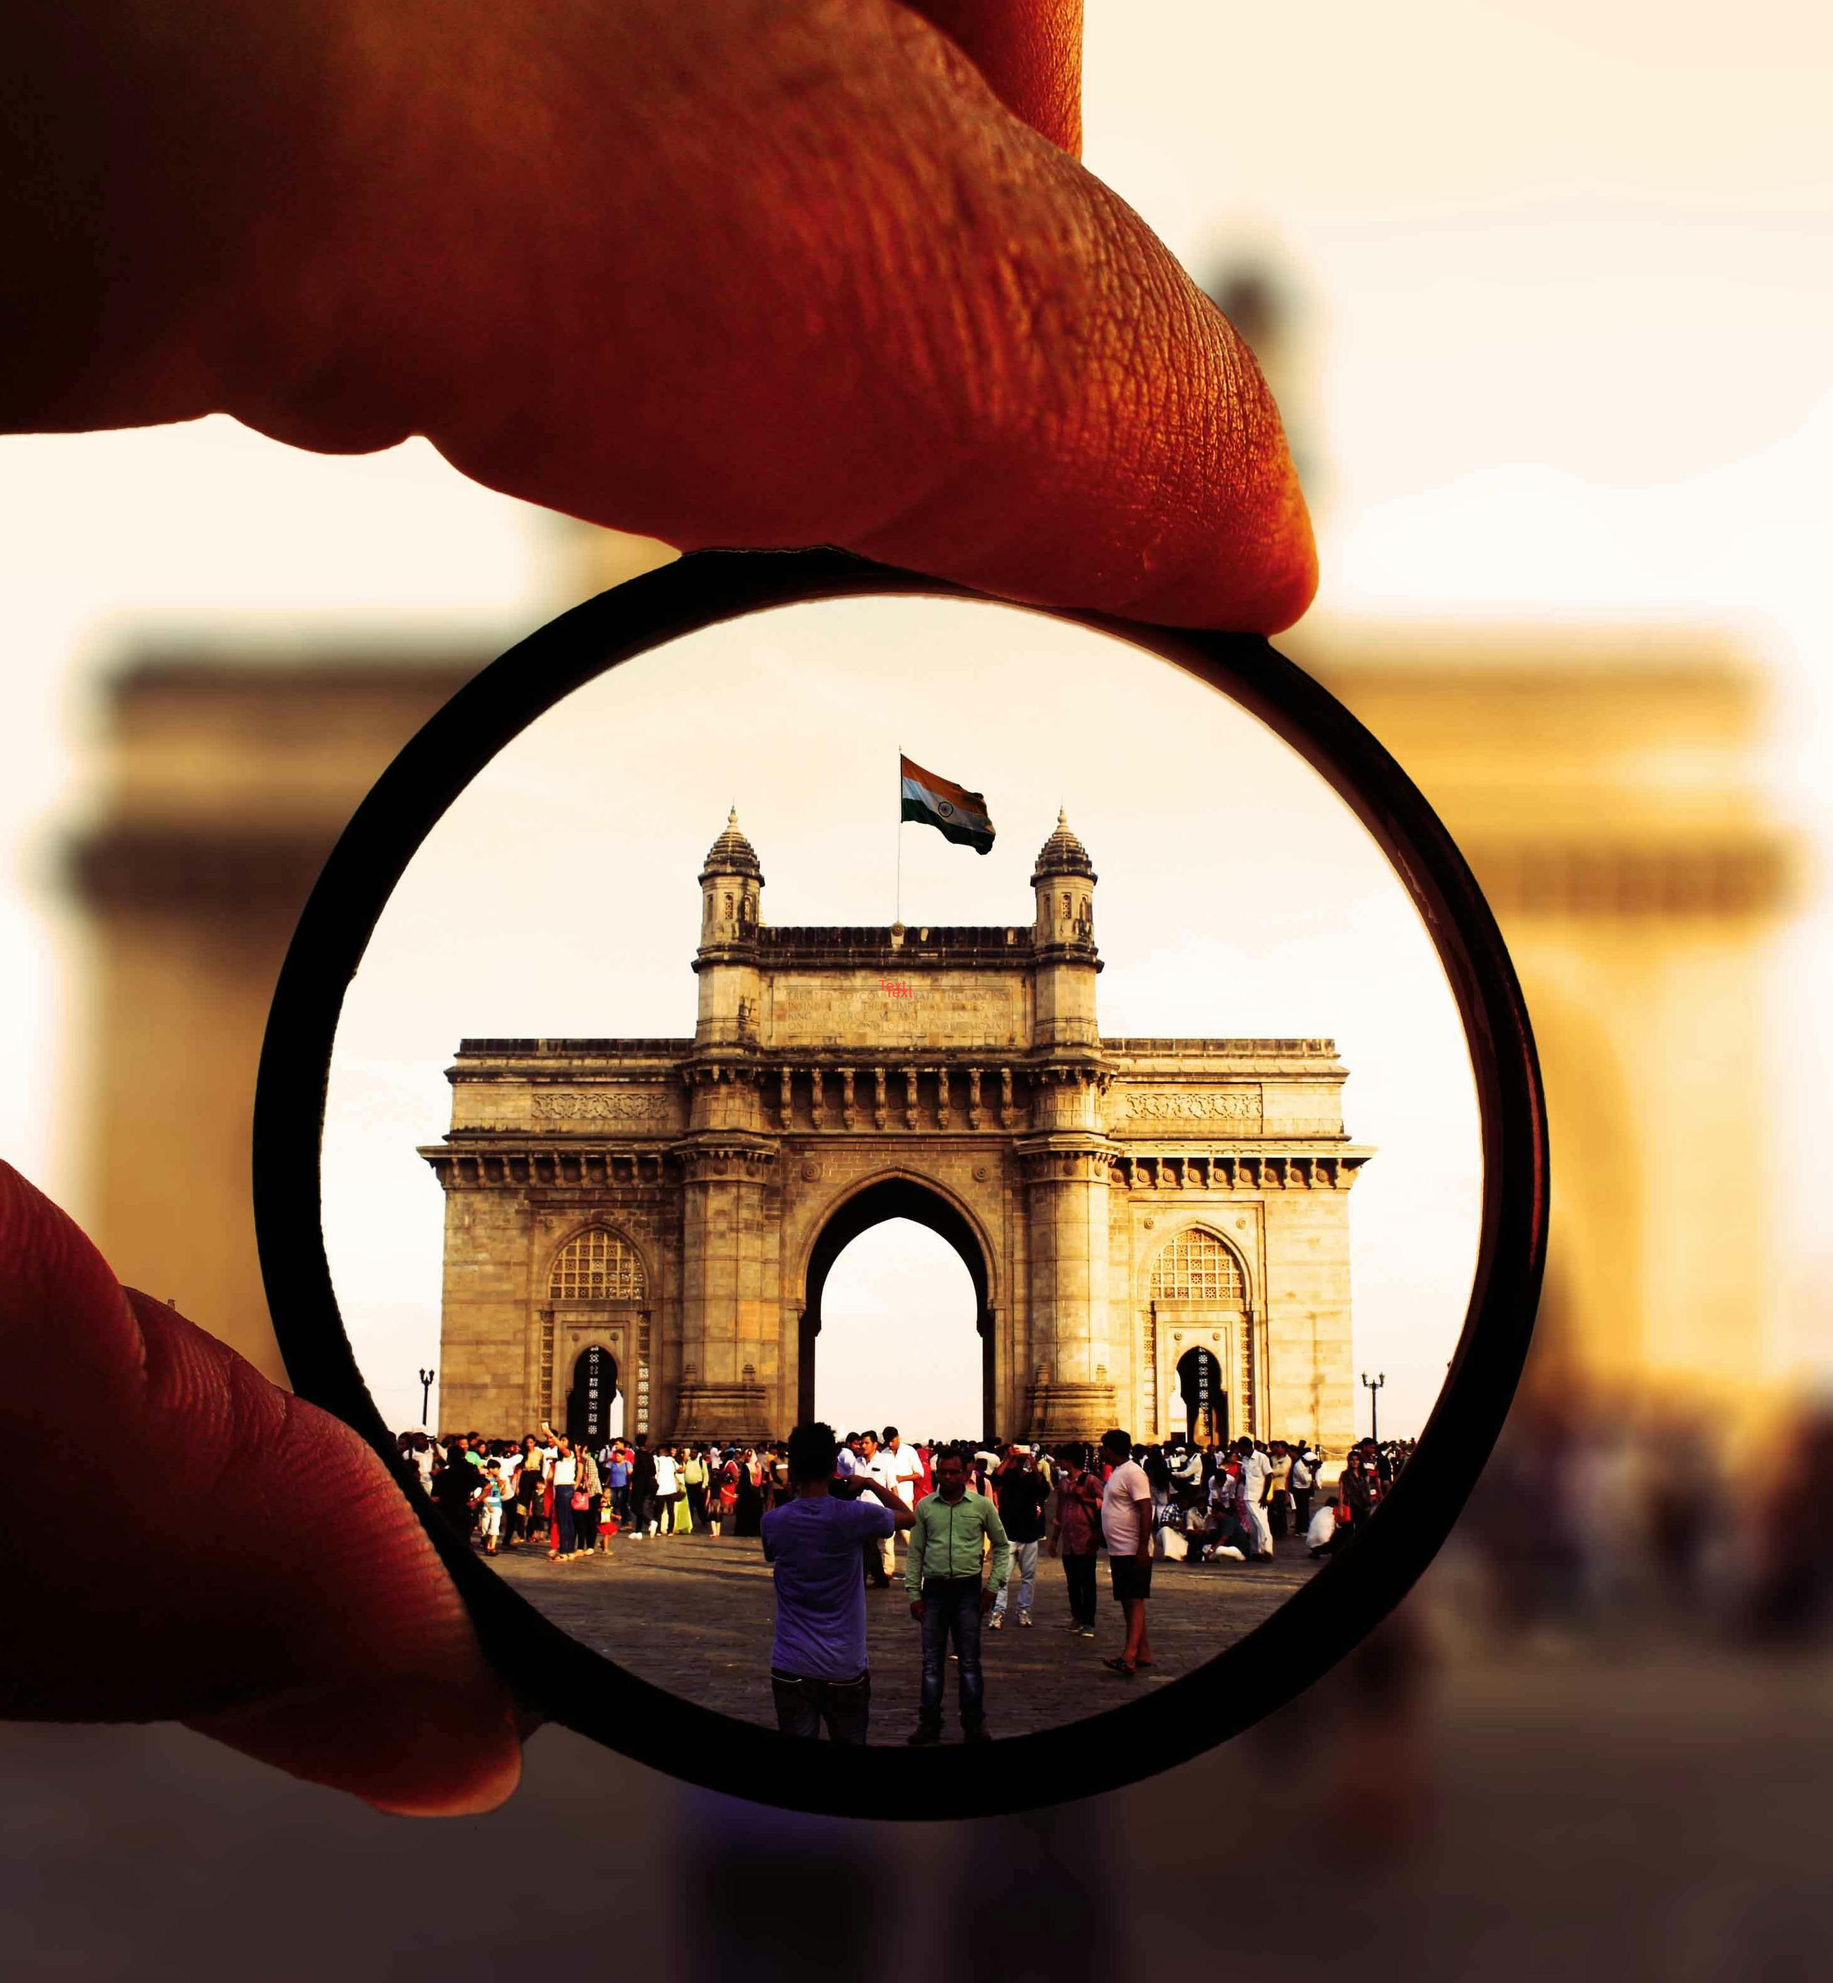
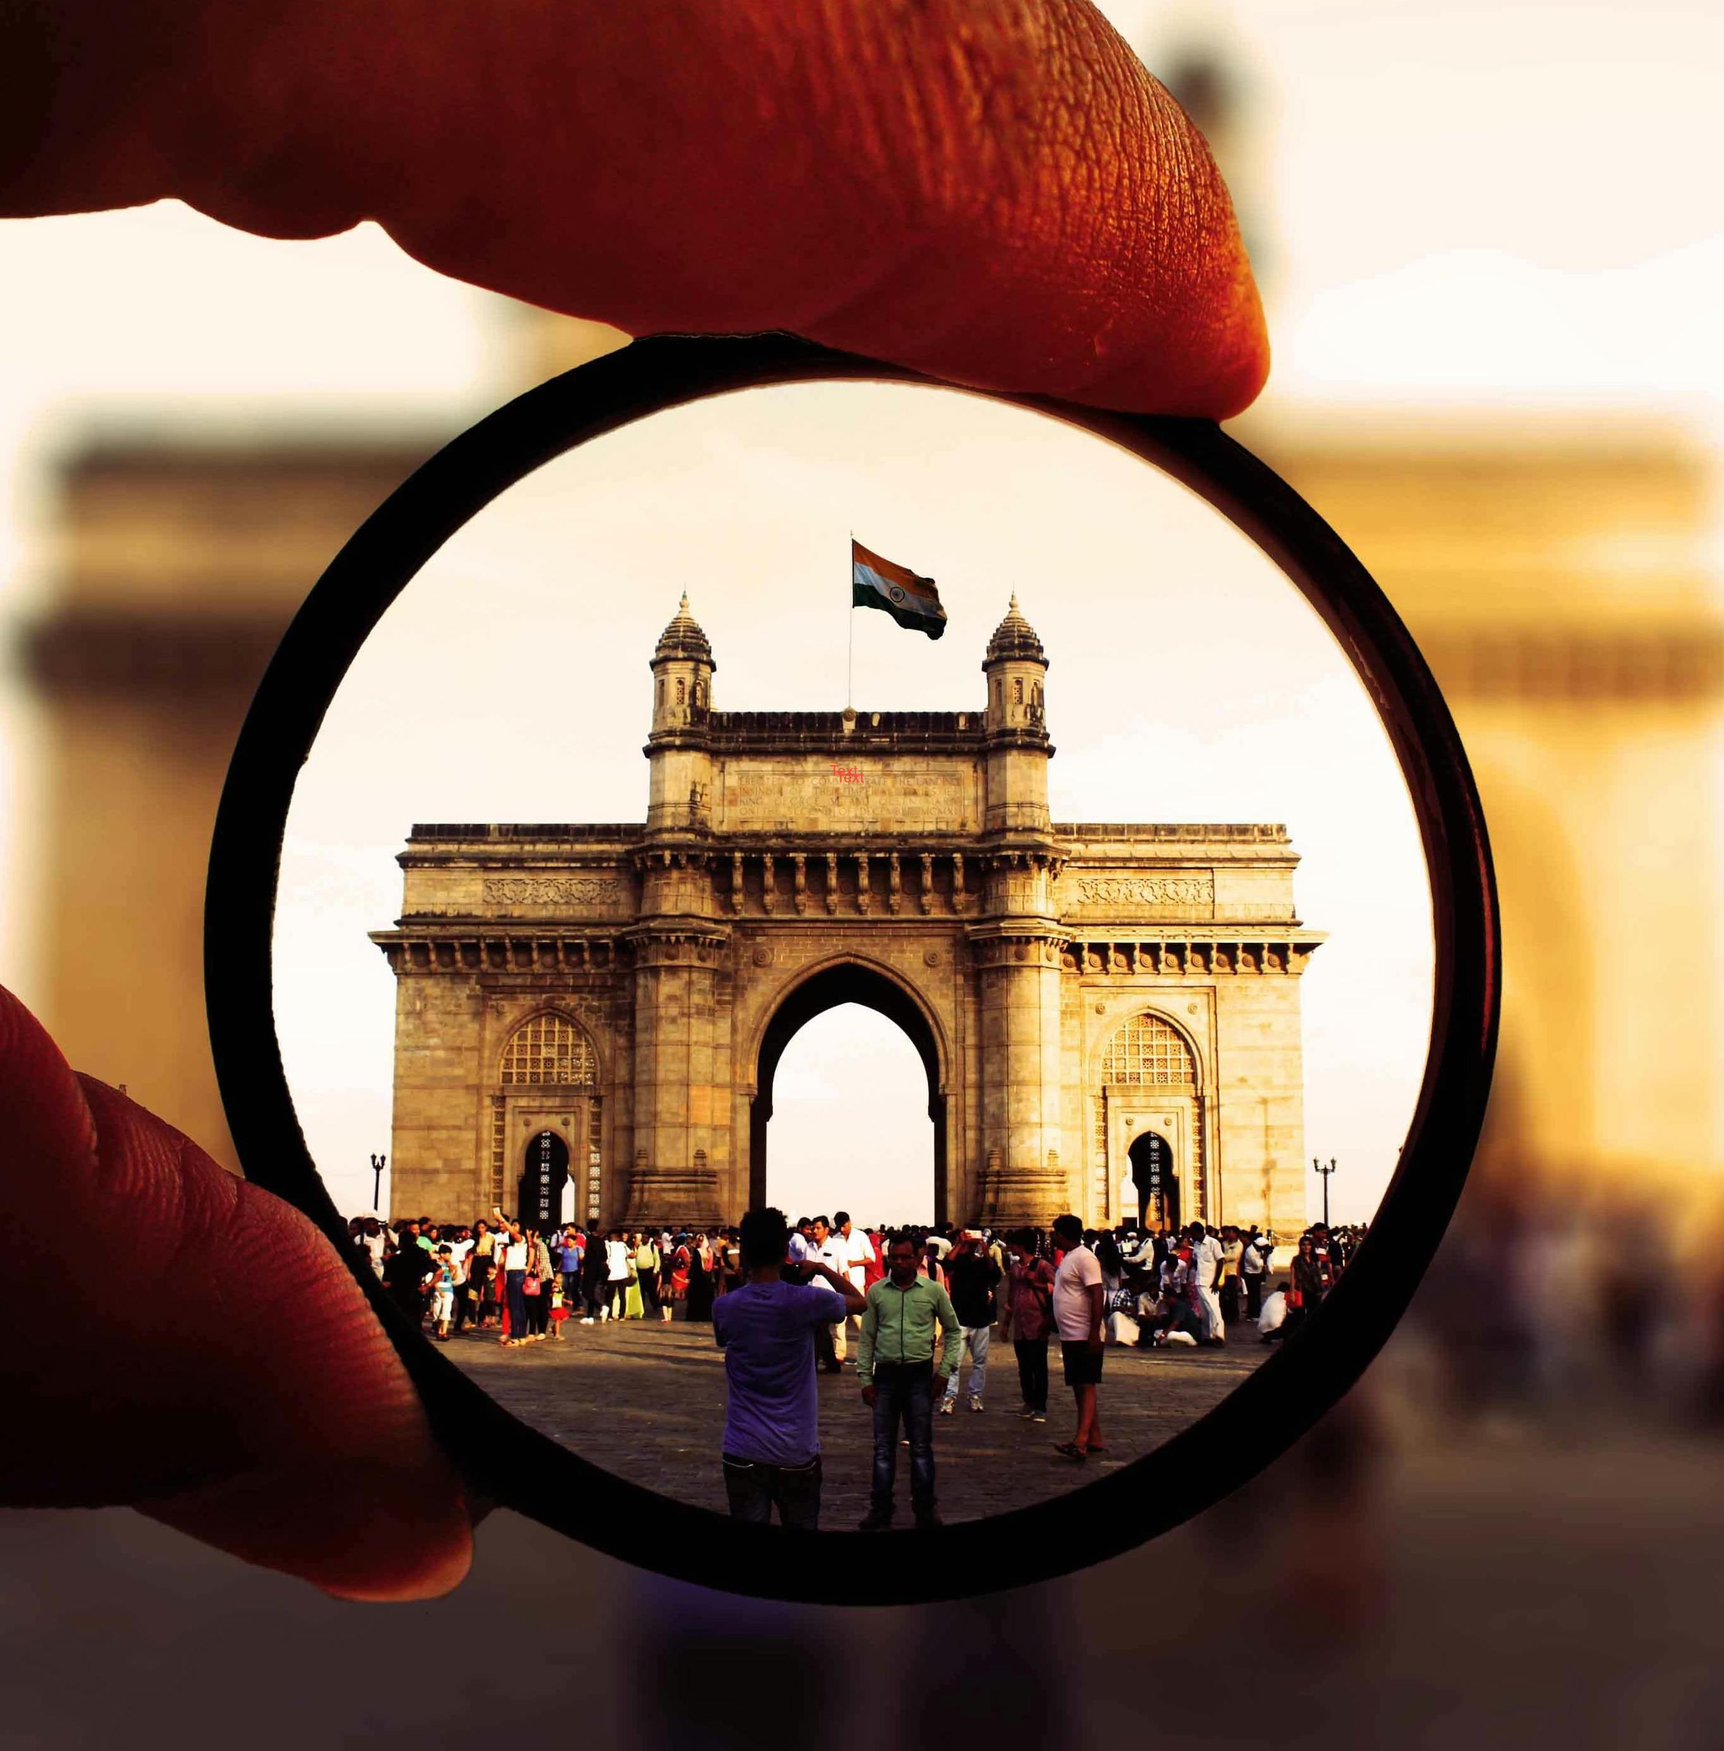
Fixed the desktop size and added Mumbia, Beyond the code section

diff --git a/src/sections/About.tsx b/src/sections/About.tsx
@@ -76,23 +76,25 @@ const animeImages = [
 ];
 
 const hobbies = [
-  { title: "Sketching", emoji: "🎨" },
-  { title: "Playing Chess", emoji: "♕" },
-  { title: "Photography", emoji: "📸" },
-  { title: "Creating Content", emoji: "📽" },
-  { title: "Music", emoji: "🎧" },
+  { title: "Sketching", emoji: "🎨", left: "5%", top: "5%" },
+  { title: "Chess", emoji: "♟", left: "50%", top: "5%" },
+  { title: "Photography", emoji: "📸", left: "10%", top: "35%" },
+  { title: "Creating Content", emoji: "📽", left: "35%", top: "40%" },
+  { title: "Music", emoji: "🎧", left: "70%", top: "45%" },
+  { title: "Fitness", emoji: "🥋", left: "5%", top: "65%" },
+  { title: "Videography", emoji: "🎞", left: "45%", top: "70%" },
 ];
 
 export const AboutSection = () => {
   return (
-    <div className="py-20">
+    <div className="py-20 lg:py-28">
       <div className="container">
         <SectionHeader
           eyebrow="About Me"
           title="A Glimpse Into My World"
           description="Learn more about who I am"
         />
-        <div className=" flex flex-col gap-8">
+        <div className="mt-20 flex flex-col gap-8">
           {/* <Card className="h-[320px]">
             <div className="flex flex-col">
               <div className="inline-flex items-center gap-2">
@@ -106,64 +108,89 @@ export const AboutSection = () => {
             </div>
           </Card> */}
           {/* My Recommendations Section */}
-          <Card>
-            <CardHeader
-              title="My Recommendations"
-              description="Explore My Tastebuds"
-            />
-            {/* Scrollable Anime Cards */}
-            <div className="overflow-x-auto flex space-x-4 mt-4">
-              {animeImages.map((anime) => (
-                <div key={anime.name} className="min-w-[150px]">
-                  <a
-                    href={anime.imdbUrl}
-                    target="_blank"
-                    rel="noopener noreferrer"
+          <div className="grid grid-cols-1 gap-8 md:grid-cols-5">
+            <Card className="h-[320px] md:col-span-2">
+              <CardHeader
+                title="Recommendations"
+                description=""
+                className="mt-0"
+              />
+              {/* Scrollable Anime Cards */}
+              <div className="overflow-x-auto flex space-x-4">
+                {animeImages.map((anime) => (
+                  <div key={anime.name} className="min-w-[150px] mt-2">
+                    <a
+                      href={anime.imdbUrl}
+                      target="_blank"
+                      rel="noopener noreferrer"
+                    >
+                      <Image
+                        src={anime.src}
+                        alt={anime.name}
+                        // width={150}
+                        // height={200}
+                        className="rounded-lg"
+                      />
+                    </a>
+                    {/* <p className="text-center mt-2 text-white">{anime.name}</p> */}
+                  </div>
+                ))}
+              </div>
+            </Card>
+            <Card className="h-[320px] p-0 md:col-span-3 ">
+              <CardHeader
+                title="My ToolBox"
+                description="Explore the Technologies"
+                className="px-6 pt-6"
+              />
+              <ToolBoxItem items={toolboxItems} className="mt-6" />
+              <ToolBoxItem
+                items={toolboxItems}
+                className="mt-6"
+                itemsWrapperClassName="-translate-x-1/2"
+              />
+            </Card>
+          </div>
+          <div className="grid grid-cols-1 gap-8 md:grid-cols-5 lg:grid-cols-3">
+            <Card className="h-[320px] p-0 flex flex-col md:col-span-3 lg:col-span-2">
+              <CardHeader
+                title="Beyond the Code"
+                description="Explore my interests and hobbies"
+                className="px-6 py-6"
+              />
+              <div className="relative flex-1">
+                {hobbies.map((hobby) => (
+                  <div
+                    key={hobby.title}
+                    className="inline-flex items-center gap-2 px-6 bg-gradient-to-r from-emerald-300 to-sky-400 rounded-full py-1.5 absolute"
+                    style={{
+                      left: hobby.left,
+                      top: hobby.top,
+                    }}
                   >
-                    <Image
-                      src={anime.src}
-                      alt={anime.name}
-                      // width={150}
-                      // height={200}
-                      className="rounded-lg"
-                    />
-                  </a>
-                  {/* <p className="text-center mt-2 text-white">{anime.name}</p> */}
-                </div>
-              ))}
-            </div>
-          </Card>
-          <Card className="h-[320px] p-0">
-            <CardHeader
-              title="My ToolBox"
-              description="Explore the Technologies"
-              className="px-6 pt-6"
-            />
-            <ToolBoxItem items={toolboxItems} className="mt-6" />
-            <ToolBoxItem
-              items={toolboxItems}
-              className="mt-6"
-              itemsWrapperClassName="-translate-x-1/2"
-            />
-          </Card>
-          {/* <Card>
-            <CardHeader
-              title="Beyond the Code"
-              description="Explore my interests and hobbies"
-            />
-            <div>
-              {hobbies.map((hobby) => (
-                <div key={hobby.title}>
-                  <span>{hobby.title}</span>
-                  <span>{hobby.emoji}</span>
-                </div>
-              ))}
-            </div>
-          </Card> */}
-          {/* <Card>
-            <Image src={Mumbai} alt="Mumbai" />
-            <Image src={SatishThumbsUp} alt="smiling Satish" />
-          </Card> */}
+                    <span className="font-medium text-gray-950">
+                      {hobby.title}
+                    </span>
+                    <span>{hobby.emoji}</span>
+                  </div>
+                ))}
+              </div>
+            </Card>
+            <Card className="h-[320px] p-0  md:col-span-2 lg:col-span-1">
+              <Image
+                src={Mumbai}
+                alt="Mumbai"
+                className="h-full w-full object-cover"
+              />
+              <div className="absolute top-1/2 left-1/2 -translate-x-1/2 -translate-y-1/2 mt-10 md:mt-14">
+                <Image
+                  src={SatishThumbsUp}
+                  alt="smiling Satish"
+                  className="size-20 rounded-full md:size-28"
+                />
+              </div>
+            </Card>
+          </div>
         </div>
       </div>
     </div>

diff --git a/src/components/CardHeader.tsx b/src/components/CardHeader.tsx
@@ -10,7 +10,7 @@ export const CardHeader = ( {title, description, className} : {
         <StarIcon className="size-9 text-emerald-300" />
         <h3 className="font-serif text-3xl">{title}</h3>
       </div>
-      <p className="text-sm text-white/60 mt-2">{description}</p>
+      <p className="text-smlg:text-base max-w-xs text-white/60 mt-2">{description}</p>
     </div>
   );
 };

diff --git a/src/components/ToolBoxItem.tsx b/src/components/ToolBoxItem.tsx
@@ -8,7 +8,7 @@ export const ToolBoxItem = ({
 }: {
   items: {
     title: string;
-    iconTypes: React.ElementType;
+    iconType: React.ElementType;
   }[];
   className?: string;
   itemsWrapperClassName?: string;
